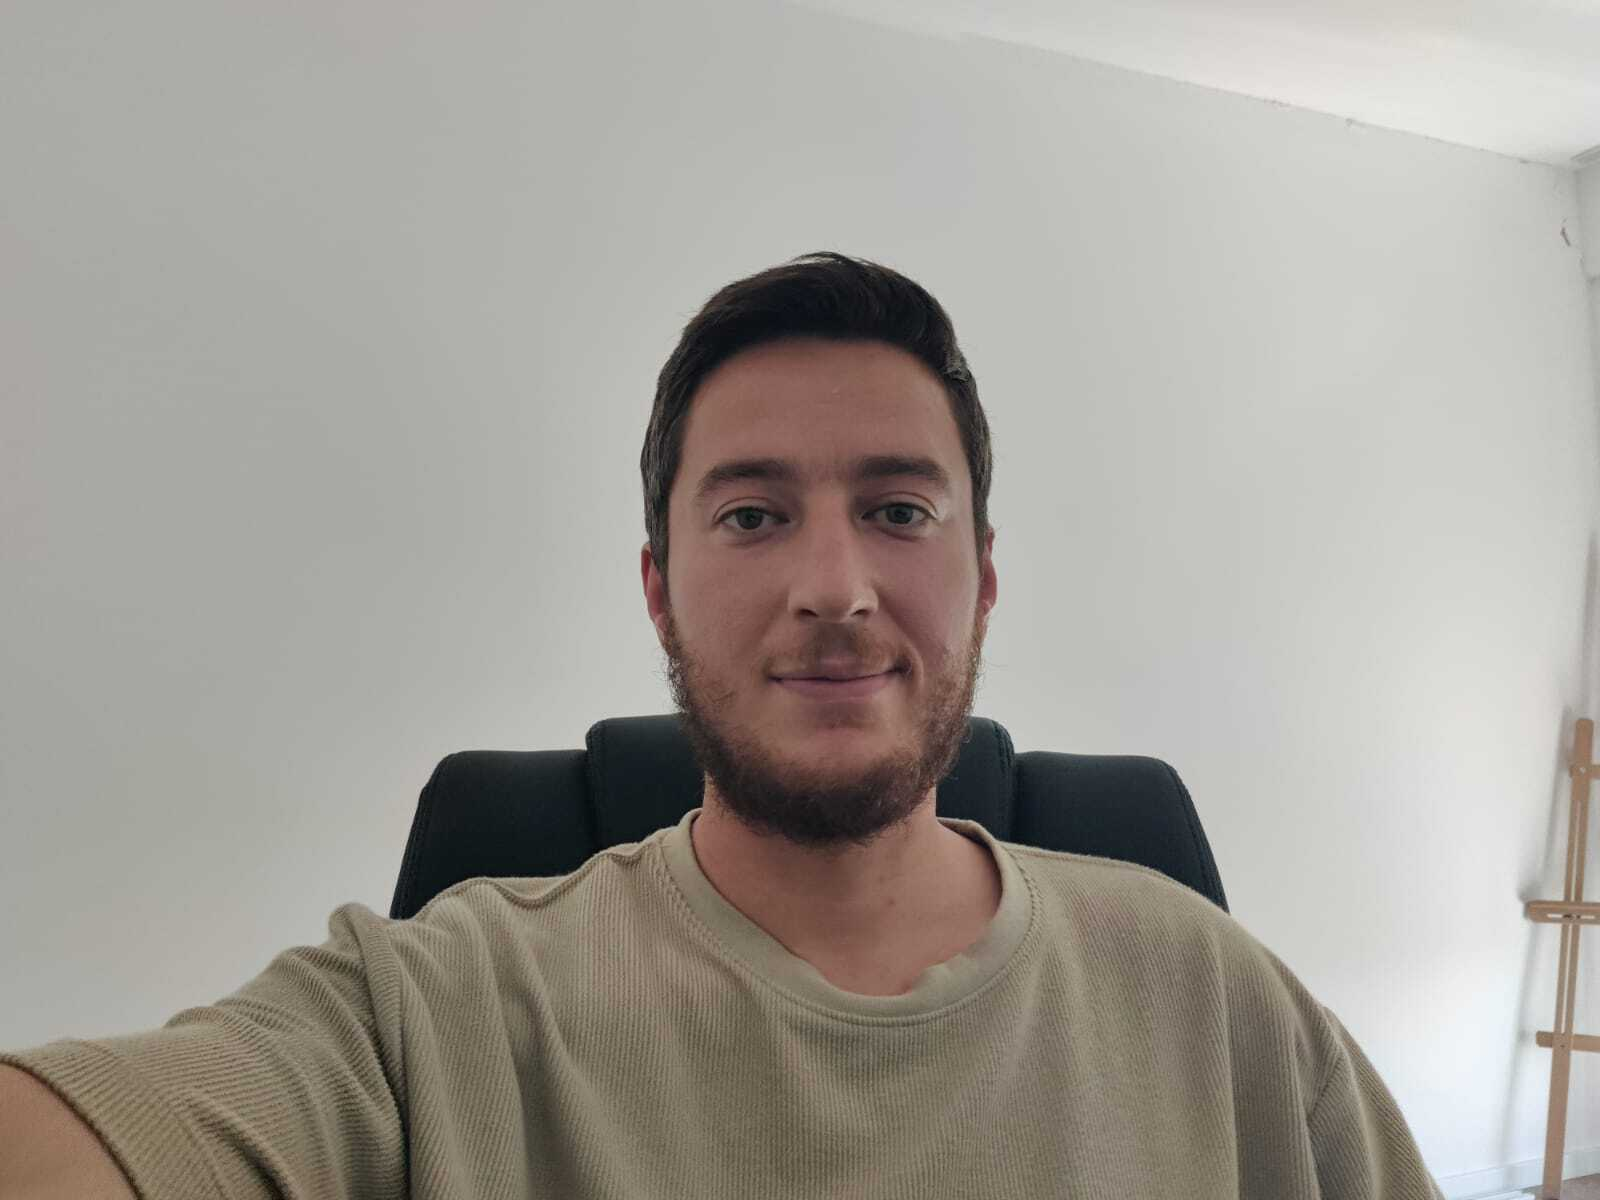
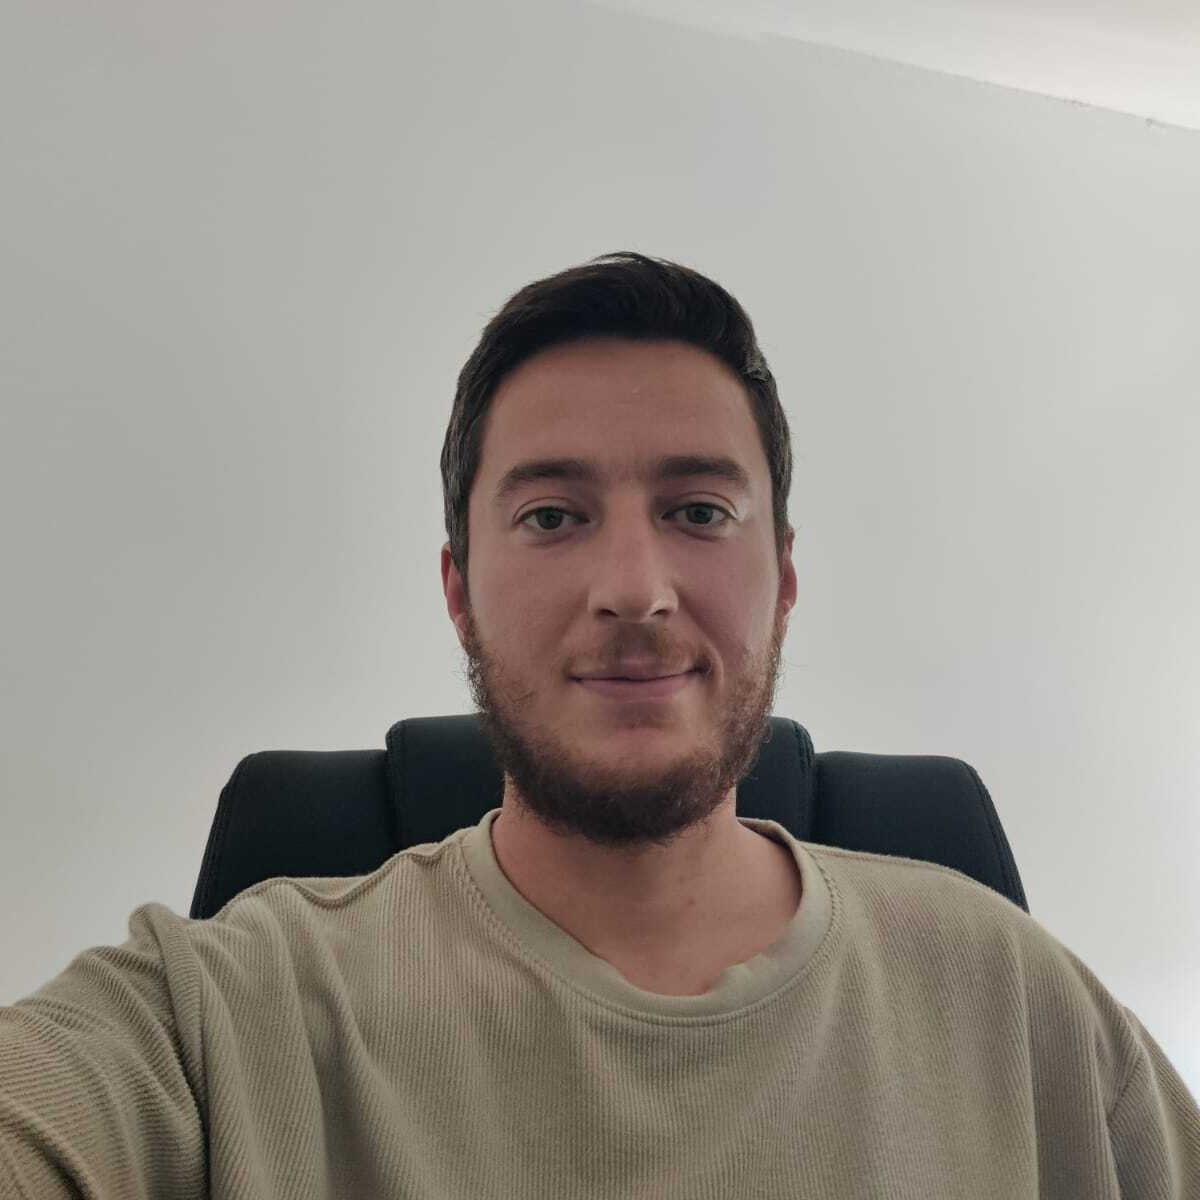
updated

diff --git a/index.html b/index.html
@@ -687,33 +687,7 @@ Cloud Chief Technology Officer <br> Google Developer Expert <br>
             </div>
             <!-- Team Item Ends -->
           </div>
-          <div class="col-lg-3 col-md-6 col-xs-12">
-            <!-- Team Item Starts -->
-            <div class="team-item wow fadeInUp" data-wow-delay="1.0s">
-              <div class="team-img">
-                <img class="img-fluid" src="assets/img/speaker/sasha.jpeg" alt="" >
-                <div class="team-overlay">
-                  <div class="social-links">
-                    <a href="https://www.linkedin.com/in/aleks-denisov/" target="_blank"><i class="fab fa-linkedin"></i></a>
-                    
-                    
-                </div>
-                </div>
-              </div>
-              <div class="info-text">
-                <h3><a href="#">
-                  Sasha Denisov
-</a></h3>
-                <p> Chief Software Engineer
-
-<br> Google Developer Expert <br> <span style="color: rgb(0, 0, 0); ">@EPAM Systems </span>
-
- </p>
-              </div>
-            </div>
-            <!-- Team Item Ends -->
-          </div>
-
+        
           <div class="col-lg-3 col-md-6 col-xs-12">
             <!-- Team Item Starts -->
             <div class="team-item wow fadeInUp" data-wow-delay="1.0s">
@@ -837,27 +811,205 @@ Cloud Chief Technology Officer <br> Google Developer Expert <br>
             </div>
             <!-- Team Item Ends -->
 
+         
+
+            
+          </div>
+
+
+           <div class="col-lg-3 col-md-6 col-xs-12">
             <!-- Team Item Starts -->
             <div class="team-item wow fadeInUp" data-wow-delay="1.0s">
               <div class="team-img">
                 <img class="img-fluid" src="assets/img/speaker/gentrit.jpeg" alt="" >
                 <div class="team-overlay">
                   <div class="social-links">
-                    <a href="https://www.linkedin.com/in/fazlija/?miniProfileUrn=urn%3Ali%3Afs_miniProfile%3AACoAAC_mccUBr-6J-te50ME0alv0H20Qy0DigBw" target="_blank"><i class="fab fa-linkedin"></i></a>
-                    
+                    <a href="https://www.linkedin.com/in/fazlija/" target="_blank"><i class="fab fa-linkedin"></i></a>
+                   
                     
                 </div>
                 </div>
               </div>
               <div class="info-text">
                 <h3><a href="#">
-                  Gentrit Fazlija</a></h3>
-                <p>Co-Founder & CTO <br><span style="color: rgb(0, 0, 0); ">  @AI Strategy Institute</span><br> AI Advisor & Deep Learning Instructor <br> <span style="color: rgb(0, 0, 0); ">@Nvidia</span>
+                  Gentrit Fazlija
+</a></h3>
+                <p>Co-Founder & CTO 
+
+
+ <br> <br>    <span style="color: rgb(0, 0, 0); ">@AI Strategy Institute</span></p>
               </div>
             </div>
             <!-- Team Item Ends -->
           </div>
 
+        
+           <div class="col-lg-3 col-md-6 col-xs-12">
+            <!-- Team Item Starts -->
+            <div class="team-item wow fadeInUp" data-wow-delay="1.0s">
+              <div class="team-img">
+                <img class="img-fluid" src="assets/img/speaker/hasan.png" alt="" >
+                <div class="team-overlay">
+                  <div class="social-links">
+                    <a href="https://www.linkedin.com/in/hasancana/" target="_blank"><i class="fab fa-linkedin"></i></a>
+                   
+                    
+                </div>
+                </div>
+              </div>
+              <div class="info-text">
+                <h3><a href="#">
+                  Hasan Cana
+</a></h3>
+                <p>Senior Manager of Software
+
+
+ <br> <br>    <span style="color: rgb(0, 0, 0); ">@Wasabi Technologies</span></p>
+              </div>
+            </div>
+            <!-- Team Item Ends -->
+          </div>
+
+        
+           <div class="col-lg-3 col-md-6 col-xs-12">
+            <!-- Team Item Starts -->
+            <div class="team-item wow fadeInUp" data-wow-delay="1.0s">
+              <div class="team-img">
+                <img class="img-fluid" src="assets/img/speaker/vjollca.jpg" alt="" >
+                <div class="team-overlay">
+                  <div class="social-links">
+                    <a href="https://www.linkedin.com/in/vjollca-kastrati/" target="_blank"><i class="fab fa-linkedin"></i></a>
+                   
+                    
+                </div>
+                </div>
+              </div>
+              <div class="info-text">
+                <h3><a href="#">
+                  Vjollca Kastrati
+</a></h3>
+                <p>Manager of Quality Assurance
+
+
+ <br> <br>    <span style="color: rgb(0, 0, 0); ">@Wasabi Technologies
+
+</span></p>
+              </div>
+            </div>
+            <!-- Team Item Ends -->
+          </div>
+
+        
+           <div class="col-lg-3 col-md-6 col-xs-12">
+            <!-- Team Item Starts -->
+            <div class="team-item wow fadeInUp" data-wow-delay="1.0s">
+              <div class="team-img">
+                <img class="img-fluid" src="assets/img/speaker/fatonmus3.jpeg" alt="" >
+                <div class="team-overlay">
+                  <div class="social-links">
+                    <a href="" target="_blank"><i class="fab fa-linkedin"></i></a>
+                   
+                    
+                </div>
+                </div>
+              </div>
+              <div class="info-text">
+                <h3><a href="#">
+                  Faton Mustafa
+</a></h3>
+                <p>Team Lead, DevOps
+
+
+ <br> <br>    <span style="color: rgb(0, 0, 0); ">@Wasabi Technologies
+
+</span></p>
+              </div>
+            </div>
+            <!-- Team Item Ends -->
+          </div>
+
+         <div class="col-lg-3 col-md-6 col-xs-12">
+            <!-- Team Item Starts -->
+            <div class="team-item wow fadeInUp" data-wow-delay="1.0s">
+              <div class="team-img">
+                <img class="img-fluid" src="assets/img/speaker/celik.jpeg" alt="" >
+                <div class="team-overlay">
+                  <div class="social-links">
+                    <a href="https://www.linkedin.com/in/celiknimani/" target="_blank"><i class="fab fa-linkedin"></i></a>
+                   
+                    
+                </div>
+                </div>
+              </div>
+              <div class="info-text">
+                <h3><a href="#">
+                  Celik Nimani
+</a></h3>
+                <p>Founder & Entrepreneur
+
+
+ <br> <br>    <span style="color: rgb(0, 0, 0); "></span></p>
+              </div>
+            </div>
+            <!-- Team Item Ends -->
+          </div>
+
+        
+           <div class="col-lg-3 col-md-6 col-xs-12">
+            <!-- Team Item Starts -->
+            <div class="team-item wow fadeInUp" data-wow-delay="1.0s">
+              <div class="team-img">
+                <img class="img-fluid" src="assets/img/speaker/rita.png" alt="" >
+                <div class="team-overlay">
+                  <div class="social-links">
+                    <a href="https://www.linkedin.com/in/rita-kastrati99/" target="_blank"><i class="fab fa-linkedin"></i></a>
+                   
+                    
+                </div>
+                </div>
+              </div>
+              <div class="info-text">
+                <h3><a href="#">
+                  Rita Kastrati
+</a></h3>
+                <p>Founder & CEO
+
+
+ <br> <br>    <span style="color: rgb(0, 0, 0); ">@Pioneering People 
+
+</span></p>
+              </div>
+            </div>
+            <!-- Team Item Ends -->
+          </div>
+
+        
+           <div class="col-lg-3 col-md-6 col-xs-12">
+            <!-- Team Item Starts -->
+            <div class="team-item wow fadeInUp" data-wow-delay="1.0s">
+              <div class="team-img">
+                <img class="img-fluid" src="assets/img/speaker/blendrit.jpeg" alt="" >
+                <div class="team-overlay">
+                  <div class="social-links">
+                    <a href="https://www.linkedin.com/in/blendritelezaj/" target="_blank"><i class="fab fa-linkedin"></i></a>
+                   
+                    
+                </div>
+                </div>
+              </div>
+              <div class="info-text">
+                <h3><a href="#">
+Blendrit Elezaj </a></h3>
+                <p>CEO & Co-Founder 
+
+
+ <br> <br>    <span style="color: rgb(0, 0, 0); ">@Outsorcy</span></p>
+              </div>
+            </div>
+            <!-- Team Item Ends -->
+          </div>
+
+        
 
         </div>
       </div>
